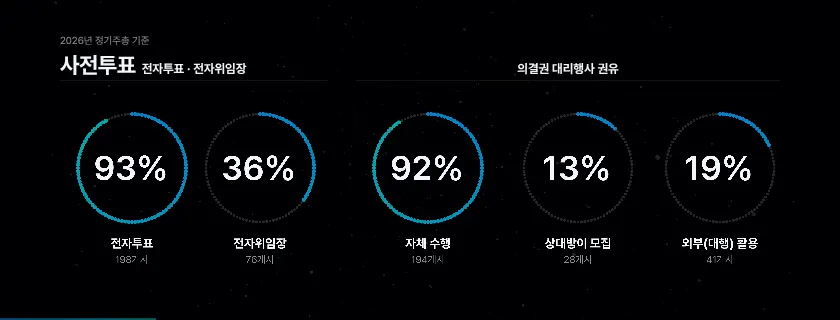
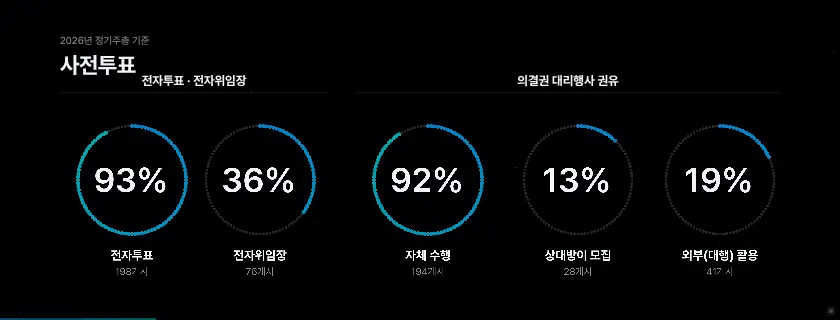
session4 K08: 묶음 제목 구분선 · 링 그래프 60px 아래로
Claude-Session: https://claude.ai/code/session_01Mn7NmyW5iujmmHnaRBFKBZ

diff --git a/sw.js b/sw.js
@@ -1,5 +1,5 @@
 /* 오프라인 캐시 — 온라인 주소(https)로 한 번 열면 모든 파일을 저장해 두고, 통신이 끊겨도 저장본으로 동작합니다. */
-const V='seminar-screen-11262004';
+const V='seminar-screen-11262006';
 const FILES=["./","assets/KakaoBigSans-Bold.woff2","assets/KakaoBigSans-Regular.woff2","assets/KakaoSmallSans-Bold.woff2","assets/KakaoSmallSans-Light.woff2","assets/KakaoSmallSans-Regular.woff2","assets/OrbitControls.js","assets/PretendardVariable.woff2","assets/attendees.js","assets/blue-bloom.html","assets/cong1.webp","assets/cong2.webp","assets/ds-bg.html","assets/four-states.html","assets/intro.mp4","assets/irk-white.svg","assets/irk-wordmark-white.svg","assets/kism-intro.mp4","assets/kism-white.svg","assets/ksmp-white.svg","assets/panel.js","assets/qa-online.js","assets/s2/img1.png","assets/s2/img2.png","assets/s2/img3.png","assets/s2/img4.png","assets/s4/aws.webp","assets/s4/callcenter.webp","assets/s4/chair-1.webp","assets/s4/chair-2.webp","assets/s4/chair-3.webp","assets/s4/conexus-word.webp","assets/s4/ctl-1.webp","assets/s4/cx-1.webp","assets/s4/cx-2.webp","assets/s4/cx-3.webp","assets/s4/cx-flow.mp4","assets/s4/cx-pop1.webp","assets/s4/cx-pop2.webp","assets/s4/cx-vote.mp4","assets/s4/cx-vote.webp","assets/s4/cxs-1.webp","assets/s4/insurance.webp","assets/s4/isms-t.webp","assets/s4/isms.webp","assets/s4/ismsp-t.webp","assets/s4/ismsp.webp","assets/s4/kosmos-white.png","assets/s4/ks-1.webp","assets/s4/ks-2.webp","assets/s4/ks-3.webp","assets/s4/ks-4.webp","assets/s4/ks-5.webp","assets/s4/ks-video.webp","assets/s4/live-1.webp","assets/s4/live-2.webp","assets/s4/live-3.webp","assets/s4/live-4.webp","assets/s4/live-5.webp","assets/s4/live-6.webp","assets/s4/live-7.webp","assets/s4/live-8.webp","assets/s4/logos.webp","assets/s4/ocr-1.webp","assets/s4/ocr-2.webp","assets/s4/ocr-3.webp","assets/s4/ocr-4.webp","assets/s4/ocr-5.webp","assets/s4/on-1.png","assets/s4/on-2.webp","assets/s4/on-3.webp","assets/s4/on-4.png","assets/s4/on-5.webp","assets/s4/onboard-1.webp","assets/s4/onboard-2.webp","assets/s4/privacy.webp","assets/s4/proxymity.svg","assets/s4/rehearsal.webp","assets/s4/streaming-korea.webp","assets/s4/tab-1.webp","assets/s4/tab-2.webp","assets/s4/team.webp","assets/sched.js","assets/screen-title-2.svg","assets/screen-title-b-text.svg","assets/screen-title-b.svg","assets/seat-banners.js","assets/seat-fascia.js","assets/seat-screen.js","assets/seatmap.js","assets/service-intro.mp4","assets/speaker-scott.webp","assets/speaker1-1.webp","assets/speaker2.webp","assets/speaker3-1.webp","assets/supabase.min.js","assets/three.min.js","assets/title-logos.svg","control.html","index-fs.html","index.html","kism.html","lobby/cuts.html","lobby/index.html","mc.html","session2.html","session4.html","sw.js","tools/s2_build.py","tools/s2_shell.html","assets/s3/p01.webp","assets/s3/p02.webp","assets/s3/p03.webp","assets/s3/p04.webp","assets/s3/p05.webp","assets/s3/p06.webp","assets/s3/p07.webp","assets/s3/p08.webp","assets/s3/p09.webp","assets/s3/p10.webp","assets/s3/p11.webp","assets/s3/p12.webp","assets/s3/p13.webp","assets/s3/p14.webp","assets/s3/p15.webp","assets/s3/p16.webp","assets/s3/p17.webp","assets/s3/p18.webp","assets/s3/p19.webp","assets/s3/p20.webp","assets/s3/p21.webp","assets/s3/p22.webp","assets/s3/p23.webp","assets/kism/photo-main.webp","assets/kism/photo-2.webp","assets/kism/photo-3.webp","assets/kism/photo-4.webp","assets/sound/countdown-tick.mp3","assets/sound/sfx-s3-part.mp3","assets/sound/sfx-s4-reveal.mp3","assets/sound/sfx-s5-proxymity.mp3","assets/sound/sfx-s6-chime.mp3","assets/sound/sfx-s7-close.mp3","assets/sound/opening-hit.mp3","assets/s4/kosmos-color.svg","assets/s4/ke-logo.png","assets/s4/ke-live.mp4","assets/kism/kwon-talk.mp4","assets/kism/manual-book.webp","kism-open.html","kism_16x9.html","led.html","assets/s4/cx-ops.mp4","assets/s4/cx-ops.webp","assets/s4/agent-app.mp4","assets/s4/agent-app.webp","assets/s4/k24b-bg.webp","session0.html","assets/kism/photo-main-cut.webp","assets/s4/cx-chair.mp4","assets/s4/cx-chair.webp","assets/s4/cx-test.mp4","assets/s4/cx-test.webp","assets/s4/onboard-mgr.webp","assets/s4/proxymity-logo.png","assets/s4/k21-bg.webp","assets/s4/kosmos-admin-white.svg","assets/kism-intro-16x9.mp4","assets/seat-guide.html","assets/s4/app-icon-agent.svg","assets/ds-main.mp4","assets/s4/k2-agency.webp","assets/s4/k2-support.webp","assets/s4/thumbs/K00.webp","assets/s4/thumbs/K01.webp","assets/s4/thumbs/K02.webp","assets/s4/thumbs/K03.webp","assets/s4/thumbs/K04.webp","assets/s4/thumbs/K05.webp","assets/s4/thumbs/K06.webp","assets/s4/thumbs/K07.webp","assets/s4/thumbs/K08.webp","assets/s4/thumbs/K09.webp","assets/s4/thumbs/K10.webp","assets/s4/thumbs/K11.webp","assets/s4/thumbs/K12.webp","assets/s4/thumbs/K13.webp","assets/s4/thumbs/K14.webp","assets/s4/thumbs/K15.webp","assets/s4/thumbs/K16.webp","assets/s4/thumbs/K17.webp","assets/s4/thumbs/K18a.webp","assets/s4/thumbs/K18b.webp","assets/s4/thumbs/K18c.webp","assets/s4/thumbs/K19.webp","assets/s4/thumbs/K19b.webp","assets/s4/thumbs/K20.webp","assets/s4/thumbs/K21.webp","assets/s4/thumbs/K21b.webp","assets/s4/thumbs/K22s.webp","assets/s4/thumbs/K23.webp","assets/s4/thumbs/K23b.webp","assets/s4/thumbs/K24a.webp","assets/s4/thumbs/K24b.webp","assets/s4/thumbs/K24c.webp","assets/s4/thumbs/K25.webp","assets/s4/thumbs/K25b.webp","assets/s4/thumbs/K26.webp","assets/s4/thumbs/K27.webp","assets/s4/thumbs/K28a.webp","assets/s4/thumbs/K28b.webp","assets/s4/thumbs/K28c.webp","assets/s4/thumbs/K28d.webp","assets/s4/thumbs/K29.webp","assets/s4/thumbs/K30.webp","assets/s4/thumbs/K09b.webp","assets/s4/thumbs/K28e.webp"];
 self.addEventListener('install',e=>{e.waitUntil(caches.open(V).then(c=>c.addAll(FILES)).then(()=>self.skipWaiting()));});
 self.addEventListener('activate',e=>{e.waitUntil(caches.keys().then(ks=>Promise.all(ks.filter(k=>k!==V).map(k=>caches.delete(k)))).then(()=>self.clients.claim()));});

diff --git a/session4.html b/session4.html
@@ -1566,7 +1566,7 @@ html,body,body *{touch-action:none;-webkit-touch-callout:none;-webkit-user-selec
 #K27 .photo{background-image:url(assets/s4/k2-agency.webp)!important;background-position:center 12%!important}
 #K02 .bt{top:170px;height:1250px;left:1250px;right:220px;grid-template-columns:repeat(4,minmax(0,1fr));grid-template-rows:repeat(3,minmax(0,1fr))}
 #K02 .bw,#K02 .bc{min-height:0}
-#K08 .k8h{top:310px!important}#K08 canvas.viz{top:410px!important}
+#K08 .k8h{top:370px!important}#K08 canvas.viz{top:470px!important}
 #K10 .rows{top:470px}
 #K11 .chart{top:540px;height:880px}
 #K13 .k13c{bottom:0}
